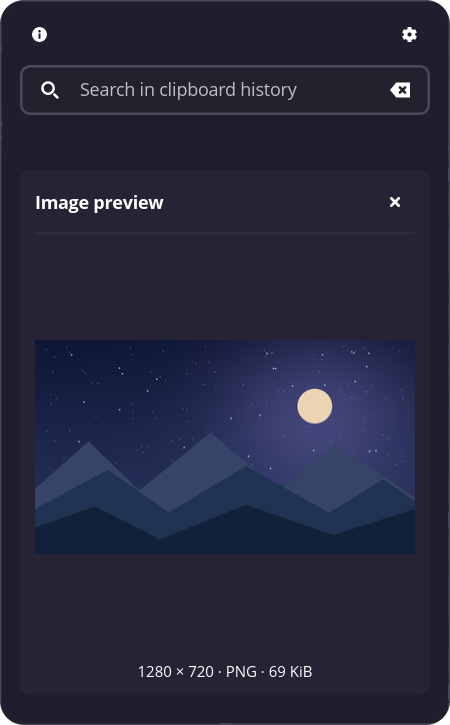
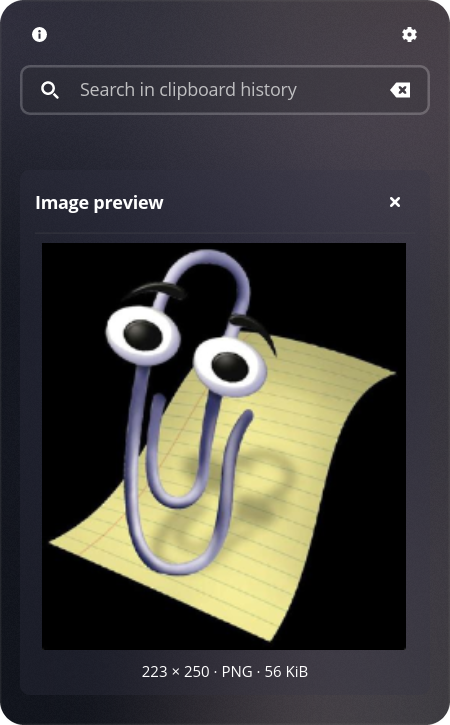
docs: refresh screenshots with Clippy and feature entries

diff --git a/README.md b/README.md
@@ -7,7 +7,7 @@ COSMIC panel applet for keeping a history of recently copied text and images.
 
 Search your clipboard, pin entries for later, and preview text or images before copying them.
 
-<img src="./resources/example.png" alt="Clippy Land history with search, an image thumbnail, dimension badge, and pinned notes" width="360">
+<img src="./resources/example.png" alt="Clippy Land history with Clippy and the main features shown as clipboard entries" width="360">
 
 ## Usage
 
@@ -60,16 +60,16 @@ and the top-right gear to open Settings. You can also [set up a keyboard shortcu
 <details>
 <summary>More screenshots</summary>
 
-Screenshots use sample clipboard entries. Colors follow your COSMIC theme.
-The panel popup supports frosted glass; the shortcut popup uses a solid theme background.
+Screenshots use Clippy and feature descriptions as sample clipboard entries.
+Colors follow your COSMIC theme. These captures use the local cosmic-panel blur fix currently being tested.
 
 | Settings | Image preview |
 | --- | --- |
 | <img src="./resources/screenshots/settings.png" alt="Compact Settings with history, image limits, and behavior controls" width="300" loading="lazy"> | <img src="./resources/screenshots/image-preview.png" alt="Image preview with original dimensions, format, and file size" width="300" loading="lazy"> |
 
-| About | Frosted panel popup |
+| About | Frosted shortcut popup |
 | --- | --- |
-| <img src="./resources/screenshots/about.png" alt="About page with version, source, issue tracker, and license" width="300" loading="lazy"> | <img src="./resources/screenshots/panel-popup.png" alt="The panel popup with COSMIC frosted glass over a wallpaper" width="300" loading="lazy"> |
+| <img src="./resources/screenshots/about.png" alt="About page with version, source, issue tracker, and license" width="300" loading="lazy"> | <img src="./resources/screenshots/shortcut-popup.png" alt="Shortcut popup with Clippy, feature entries, and background blur" width="300" loading="lazy"> |
 
 </details>
 
